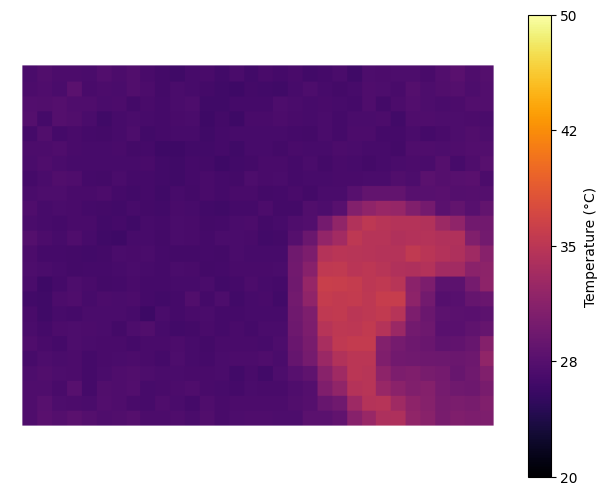
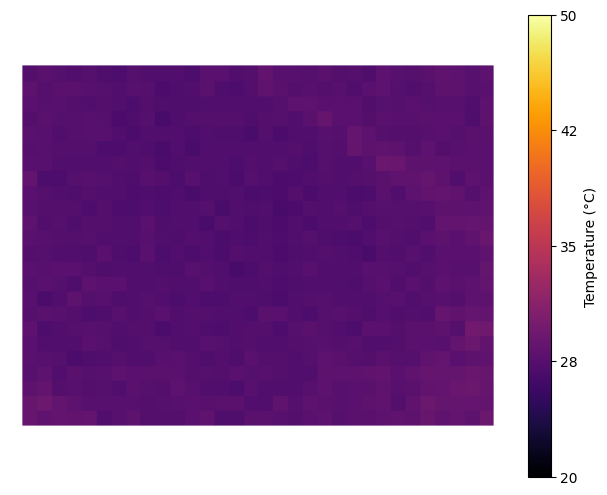
Debugging

diff --git a/CalibrationAlertWindow.py b/CalibrationAlertWindow.py
@@ -73,7 +73,8 @@ class Ui_AlertWindow(object):
 
     def stopSystem(self):
         self.main_window.stopMotor()
-        MainWindow.Ui_MainWindow.manually_calibrate(self.main_window, self.metric, [-999999, 999999])
+        MainWindow.Ui_MainWindow.manually_calibrate(self.main_window, "temp", [-999999, 999999])
+        MainWindow.Ui_MainWindow.manually_calibrate(self.main_window, "distance", [-999999, 999999])
         self.main_window.set_alert_state(False)
         self.alert_window.hide()
         
@@ -95,7 +96,8 @@ class Ui_AlertWindow(object):
         
 
     def turnCalibrationOff(self):
-        MainWindow.Ui_MainWindow.manually_calibrate(self.main_window, self.metric, [-999999, 999999])
+        MainWindow.Ui_MainWindow.manually_calibrate(self.main_window, "temp", [-999999, 999999])
+        MainWindow.Ui_MainWindow.manually_calibrate(self.main_window, "distance", [-999999, 999999])
         self.main_window.set_alert_state(False)
         self.alert_window.hide()
         

diff --git a/TempDialog.py b/TempDialog.py
@@ -111,7 +111,7 @@ class Ui_TempDetails(object):
         self.temp_dialog_close_button.setText(_translate("TempDetails", "Close"))
         self.cutoff_input_button.setText(_translate("TempDetails", "Change Cutoff"))
         self.cutoff_input.setText(_translate("TempDetails", "0"))
-        self.open_selection_window_button.setText(_translate("TempDetails", "Open Selection Window"))
+        self.open_selection_window_button.setText(_translate("TempDetails", "Edit Focused Section"))
         self.see_temp_section_alert_button.setText(_translate("TempDetails", "Temp Distribution Alert Details"))
 
 
